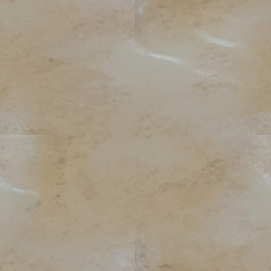
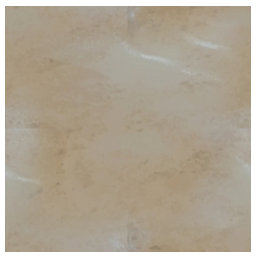
feat(adventure): plateau fronts drawn as 3/4 cliff faces from the kit - repeated strip, stairs, waterfall, rounded ends (decision 045)
cliffFaces finds the F band (at most 3 deep, plateau above, ground or a lower terrace
below); seam_tiles.py makes the cliff strips repeat sideways; art:process keeps the
kit's opaque edge panels. Coast cliff rims sandstone instead of wet rock.

Changed region(s): [[0.0, 0.0, 1.0, 1.0], [0.7812, 0.125, 0.875, 0.1875], [0.5625, 0.1875, 0.625, 0.25]]

diff --git a/src/areas/adventure/scene/mapCliffs.ts b/src/areas/adventure/scene/mapCliffs.ts
@@ -1,0 +1,97 @@
+// The cliff faces of an area in 3/4 (decision 045): along the front of each plateau (the `F` band, at most 3 tiles deep, with the
+// plateau `^` above it and open ground or a lower terrace below) the zone's cliff strip is laid and repeated, the stairs (`s`) and the waterfall (`w`)
+// cut into it get their own picture, and a run that meets a side wall ends on a rounded cap. The side and back rims of a plateau stay
+// tinted tiles (seen from above). `cliffFaces` is pure; `drawCliffs` lays the pictures in the area's ground pass. Phaser.
+import type * as Phaser from 'phaser';
+import { textureKey } from '../../../ui/world/keys';
+import type { AreaMap } from '../logic/config/content';
+import { CLIFF_ART } from './mapKit';
+
+export interface CliffRun {
+  kind: 'cliff' | 'stairs' | 'waterfall';
+  /** Columns [x0, x1) and rows top..bottom (inclusive) of the face. */
+  x0: number;
+  x1: number;
+  top: number;
+  bottom: number;
+  /** A side wall goes on past this end: a rounded cap closes it. */
+  capL: boolean;
+  capR: boolean;
+}
+
+const FACE = new Set(['F', 's', 'w']);
+/** A plateau face is at most this deep; a deeper `F` column is a side wall. */
+const MAX_DEPTH = 3;
+
+/** The plateau fronts of `map`, left to right, top to bottom. */
+export function cliffFaces(map: AreaMap): CliffRun[] {
+  const at = (x: number, y: number) => map.terrain[y]?.[x] ?? '#';
+  const cols: { x: number; top: number; bottom: number; kind: CliffRun['kind'] }[] = [];
+  for (let x = 0; x < map.cols; x += 1)
+    for (let y = 0; y < map.rows; y += 1) {
+      if (!FACE.has(at(x, y)) || FACE.has(at(x, y + 1))) continue;
+      let top = y;
+      while (top > 0 && FACE.has(at(x, top - 1))) top -= 1;
+      const column = Array.from({ length: y - top + 1 }, (_, i) => at(x, top + i));
+      const kind = column.includes('w') ? 'waterfall' : column.includes('s') ? 'stairs' : 'cliff';
+      // On top: the plateau, or for a waterfall the stream it falls from.
+      const above = at(x, top - 1);
+      if (y - top + 1 > MAX_DEPTH || !(above === '^' || (kind === 'waterfall' && (above === '~' || above === '=')))) continue;
+      cols.push({ x, top, bottom: y, kind });
+    }
+  cols.sort((a, b) => a.bottom - b.bottom || a.x - b.x);
+  const runs: CliffRun[] = [];
+  for (const c of cols) {
+    const last = runs[runs.length - 1];
+    if (last && last.x1 === c.x && last.top === c.top && last.bottom === c.bottom && last.kind === c.kind) last.x1 += 1;
+    else runs.push({ kind: c.kind, x0: c.x, x1: c.x + 1, top: c.top, bottom: c.bottom, capL: false, capR: false });
+  }
+  const face = new Set(cols.map((c) => `${c.x},${c.bottom}`));
+  for (const r of runs) {
+    if (r.kind !== 'cliff') continue;
+    r.capL = at(r.x0 - 1, r.bottom) === 'F' && !face.has(`${r.x0 - 1},${r.bottom}`);
+    r.capR = at(r.x1, r.bottom) === 'F' && !face.has(`${r.x1},${r.bottom}`);
+  }
+  return runs;
+}
+
+/** How far a face reaches up over the plateau's edge (its grass lip), in tiles. */
+const LIP = 0.35;
+
+/** Lays the zone's cliff faces into `layer` (call right after the ground tiles). Missing art = the tinted tiles stay. */
+export function drawCliffs(scene: Phaser.Scene, layer: Phaser.GameObjects.Container, map: AreaMap, zone: string) {
+  const art = CLIFF_ART[zone];
+  if (!art) return;
+  const t = map.tile;
+  const has = (id: string | undefined): id is string => !!id && scene.textures.exists(textureKey(id));
+  for (const r of cliffFaces(map)) {
+    const x = r.x0 * t;
+    const y = (r.top - LIP) * t;
+    const w = (r.x1 - r.x0) * t;
+    const h = (r.bottom - r.top + 1 + LIP) * t;
+    if (r.kind === 'waterfall' && has(art.waterfall)) {
+      // A little wider than its stream, falling into the pool below.
+      layer.add(scene.add.image(x + w / 2, y + h + t * 0.4, textureKey(art.waterfall)).setOrigin(0.5, 1).setDisplaySize(w * 1.25, h + t * 0.4));
+      continue;
+    }
+    if (r.kind === 'stairs' && has(art.stairs)) {
+      layer.add(scene.add.image(x, y, textureKey(art.stairs)).setOrigin(0).setDisplaySize(w, h));
+      continue;
+    }
+    if (!has(art.cliff)) continue;
+    const key = textureKey(art.cliff);
+    const src = scene.textures.get(key).getSourceImage();
+    const scale = h / Math.max(1, src.height);
+    // One strip repeated along the run; its pattern continues from the world's left edge, so two runs side by side line up.
+    const strip = scene.add.tileSprite(x, y, w, h, key).setOrigin(0).setTileScale(scale, scale);
+    strip.tilePositionX = x / scale;
+    layer.add(strip);
+    for (const [on, id, left] of [[r.capL, art.endL, true], [r.capR, art.endR, false]] as const) {
+      if (!on || !has(id)) continue;
+      const cap = scene.add.image(0, y, textureKey(id)).setOrigin(0);
+      const cw = (h * cap.width) / Math.max(1, cap.height);
+      cap.setDisplaySize(cw, h).setX(left ? x - t : x + w + t - cw);
+      layer.add(cap);
+    }
+  }
+}

diff --git a/src/areas/adventure/scene/mapKit.ts b/src/areas/adventure/scene/mapKit.ts
@@ -12,13 +12,13 @@ const KIT_TILES: Readonly<Record<string, Readonly<Record<string, readonly string
     '^': ['adv_map_coast_tile_dune'],
     s: ['adv_map_coast_tile_boardwalk'],
     c: ['adv_map_coast_tile_sand_b'],
-    F: ['adv_map_coast_tile_tideflat'],
+    F: ['adv_map_coast_tile_dune'],
     w: ['adv_map_coast_tile_sea_deep'],
   },
 };
 
-/** A tint per tile character over a kit tile: the trodden path darker than the sand, the cliffs darker than the rocks. */
-const KIT_TINT: Readonly<Record<string, number>> = { ',': 0xf0dfc4, F: 0xb8aa98, c: 0xd8c0e6 };
+/** A tint per tile character over a kit tile: the trodden path darker than the sand, the cliff rims sandstone brown. */
+const KIT_TINT: Readonly<Record<string, number>> = { ',': 0xf0dfc4, F: 0xc89a6a, c: 0xd8c0e6 };
 
 /** The kit tile of a zone's tile `c` at (x, y) (variants spread by a fixed hash), or null when the zone has none. */
 export function kitTile(zone: string, c: string, x: number, y: number): { id: string; tint: number } | null {
@@ -30,6 +30,22 @@ export function kitTile(zone: string, c: string, x: number, y: number): { id: st
 
 /** The zone's wall picture, seen beyond the edges of its areas. */
 export const kitWall = (zone: string): string | null => KIT_TILES[zone]?.['#']?.[0] ?? null;
+
+/** A zone's cliff face in 3/4 (decision 045 §art): the strip repeated along a plateau's front, its two rounded ends, the stairs and
+ * the waterfall cut into it. A zone without a piece keeps its tinted tiles there. */
+export interface CliffArt {
+  cliff: string;
+  endL?: string;
+  endR?: string;
+  stairs?: string;
+  waterfall?: string;
+}
+export const CLIFF_ART: Readonly<Record<string, CliffArt>> = {
+  forest: { cliff: 'adv_map_forest_edge_cliff', endL: 'adv_map_forest_edge_cliff_end_l', endR: 'adv_map_forest_edge_cliff_end_r', stairs: 'adv_map_forest_edge_stairs', waterfall: 'adv_map_forest_edge_waterfall' },
+  mountain: { cliff: 'adv_map_mountain_edge_cliff', endL: 'adv_map_mountain_edge_cliff_end_l', endR: 'adv_map_mountain_edge_cliff_end_r', stairs: 'adv_map_mountain_edge_stairs', waterfall: 'adv_map_forest_edge_waterfall' },
+  // The coast's ends stand in the sea (drawn with water around): its runs end plain.
+  coast: { cliff: 'adv_map_coast_edge_cliff', stairs: 'adv_map_coast_edge_stairs', waterfall: 'adv_map_forest_edge_waterfall' },
+};
 
 /** The pieces of each zone's cover look (decision 045 covers: tree tops, a rock overhang, a broken roof). */
 export const COVER_ART: Readonly<Record<string, Readonly<Record<string, readonly string[]>>>> = {
@@ -88,6 +104,7 @@ export const KIT_IDS: readonly string[] = [
   ...new Set([
     ...Object.values(KIT_TILES).flatMap((z) => Object.values(z).flat()),
     ...Object.values(COVER_ART).flatMap((z) => Object.values(z).flat()),
+    ...Object.values(CLIFF_ART).flatMap((z) => Object.values(z) as string[]),
     ...['wood', 'silver', 'gold', 'hidden'].flatMap((t) => [chestArt(t, false), chestArt(t, true)]),
     MIMIC_ART,
     ...PUZZLE_BY_WORD.flatMap(([, a, b]) => [a, b]),

diff --git a/tests/unit/adventureArt.test.ts b/tests/unit/adventureArt.test.ts
@@ -7,6 +7,7 @@ import { CAMP_ART, ICON_ART_IDS } from '../../src/areas/adventure/logic/art';
 import { blockedTiles } from '../../src/areas/adventure/logic/maps';
 import { corruptionDecalsOf, decalsOf } from '../../src/areas/adventure/scene/decals';
 import { chestArt, kitTile, KIT_IDS, puzzleArt } from '../../src/areas/adventure/scene/mapKit';
+import { cliffFaces } from '../../src/areas/adventure/scene/mapCliffs';
 import { PROPS } from '../../src/areas/adventure/logic/config/content';
 import { foeBadgeArt, reactionArt, skillArt, statusArt } from '../../src/areas/adventure/ui/vmKit';
 
@@ -99,5 +100,28 @@ describe('the map kit (decision 045)', () => {
         expect(blocked[Math.floor((d.y - 1) / map.tile) * map.cols + Math.floor(d.x / map.tile)], map.id).toBe(false);
       }
     }
+  });
+});
+
+describe('cliff faces (decision 045)', () => {
+  it('Moss Falls: the plateau front with its two stairs and the waterfall, capped where a side wall goes on', () => {
+    const map = MAP_LIST.find((m) => m.id === 'map_forest_falls')!;
+    const runs = cliffFaces(map);
+    const front = runs.filter((r) => r.bottom === 14);
+    expect(front.filter((r) => r.kind === 'stairs').map((r) => [r.x0, r.x1])).toEqual([[22, 24], [56, 58]]);
+    expect(runs.find((r) => r.kind === 'waterfall')).toMatchObject({ x0: 39, x1: 42, top: 13, bottom: 13 });
+    expect(front[0]).toMatchObject({ kind: 'cliff', x0: 21, top: 13, capL: true });
+    expect(front[front.length - 1]).toMatchObject({ kind: 'cliff', x1: 60, capR: true });
+  });
+
+  it('every face is at most 3 deep, on face tiles only, with the plateau (or the stream of a waterfall) above', () => {
+    for (const map of MAP_LIST)
+      for (const r of cliffFaces(map)) {
+        expect(r.bottom - r.top, map.id).toBeLessThan(3);
+        for (let x = r.x0; x < r.x1; x += 1) {
+          for (let y = r.top; y <= r.bottom; y += 1) expect('Fsw', `${map.id} ${x},${y}`).toContain(map.terrain[y]![x]!);
+          expect(r.kind === 'waterfall' ? '^~=' : '^', `${map.id} ${x}`).toContain(map.terrain[r.top - 1]![x]!);
+        }
+      }
   });
 });

diff --git a/src/areas/adventure/scene/mapView.ts b/src/areas/adventure/scene/mapView.ts
@@ -9,6 +9,7 @@ import { PROPS, type AreaMap } from '../logic/config/content';
 import { thingsOf, type Thing } from '../logic/maps';
 import { vi } from '../../../i18n/vi';
 import { decalsOf } from './decals';
+import { drawCliffs } from './mapCliffs';
 import { dressCorruption } from './mapCorruption';
 import { corruptionMarks, foeLabel, NO_MARKS, sleepMark, type CorruptionMarks } from './foeMarks';
 import { drawCover } from './mapCovers';
@@ -139,6 +140,7 @@ export function buildMap(scene: Phaser.Scene, map: AreaMap, s: AdventureSceneSta
     }),
   );
   layer.add(ground);
+  drawCliffs(scene, layer, map, zone);
   const dressing = depth.ground();
   dressCorruption(scene, layer, map, s.corruption, motion);
   for (const d of decalsOf(map, zone)) {

diff --git a/scripts/process-art.ts b/scripts/process-art.ts
@@ -340,8 +340,8 @@ async function main() {
       continue;
     }
     const src: Img = { w: png.width, h: png.height, d: Buffer.from(png.data) };
-    // The map kit's ground tiles (decision 045) are opaque seamless squares: a flat sand tile must not be keyed out.
-    const groundTile = /^adv_map_.*_tile_/.test(t.row.id);
+    // The map kit's ground tiles and edge panels (decision 045) are opaque on purpose: a flat sand tile must not be keyed out.
+    const groundTile = /^adv_map_.*_(tile|edge)_/.test(t.row.id);
     if ((!isFullBleed(t) || t.section === 'fx') && !groundTile) {
       const bg = removeBackground(src);
       if (bg.error) {

diff --git a/scripts/art/map_layouts_v2/seam_tiles.py b/scripts/art/map_layouts_v2/seam_tiles.py
@@ -3,7 +3,8 @@
 Gemini draws a tile as a square picture, not a wrapping texture: laid edge to edge its borders show
 as a grid. Each tile the game lays (the `_tile_` ids of src/areas/adventure/scene/mapKit.ts) is
 blended with itself shifted by half a tile: the borders come from the shifted copy (whose edges
-meet across the wrap), the middle stays the original. Reads the cut candidate
+meet across the wrap), the middle stays the original. The cliff strips (`_edge_cliff`), repeated
+sideways along a plateau, get the same along their width only (their transparent bottom kept). Reads the cut candidate
 (art_inbox/.candidates/<id>_a.png), writes the approved file (art_inbox/<id>.png), so running it
 again gives the same result.
 
@@ -33,8 +34,22 @@ def seamless(img: np.ndarray) -> np.ndarray:
     return (img * k[..., None] + rolled * (1 - k[..., None])).round().astype(np.uint8)
 
 
+def seamless_x(img: np.ndarray) -> np.ndarray:
+    w = img.shape[1]
+    rolled = np.roll(img, w // 2, axis=1)
+    k = np.clip((1 - np.abs(np.linspace(-1, 1, w))) * 2.2, 0, 1)
+    k = (k * k * (3 - 2 * k))[None, :, None]
+    return (img * k + rolled * (1 - k)).round().astype(np.uint8)
+
+
 def main() -> None:
-    ids = sorted(set(re.findall(r"'(adv_map_[a-z0-9_]*_tile_[a-z0-9_]+)'", KIT_TS.read_text(encoding="utf-8"))))
+    text = KIT_TS.read_text(encoding="utf-8")
+    for i in sorted(set(re.findall(r"'(adv_map_[a-z]+_edge_cliff)'", text))):
+        src = ART / ".candidates" / f"{i}_a.png"
+        img = np.asarray(Image.open(src).convert("RGBA")).astype(np.float32)
+        Image.fromarray(seamless_x(img), "RGBA").save(ART / f"{i}.png")
+        print(f"OK  {i} (sideways)")
+    ids = sorted(set(re.findall(r"'(adv_map_[a-z0-9_]*_tile_[a-z0-9_]+)'", text)))
     for i in ids:
         src = ART / ".candidates" / f"{i}_a.png"
         img = np.asarray(Image.open(src).convert("RGB")).astype(np.float32)
